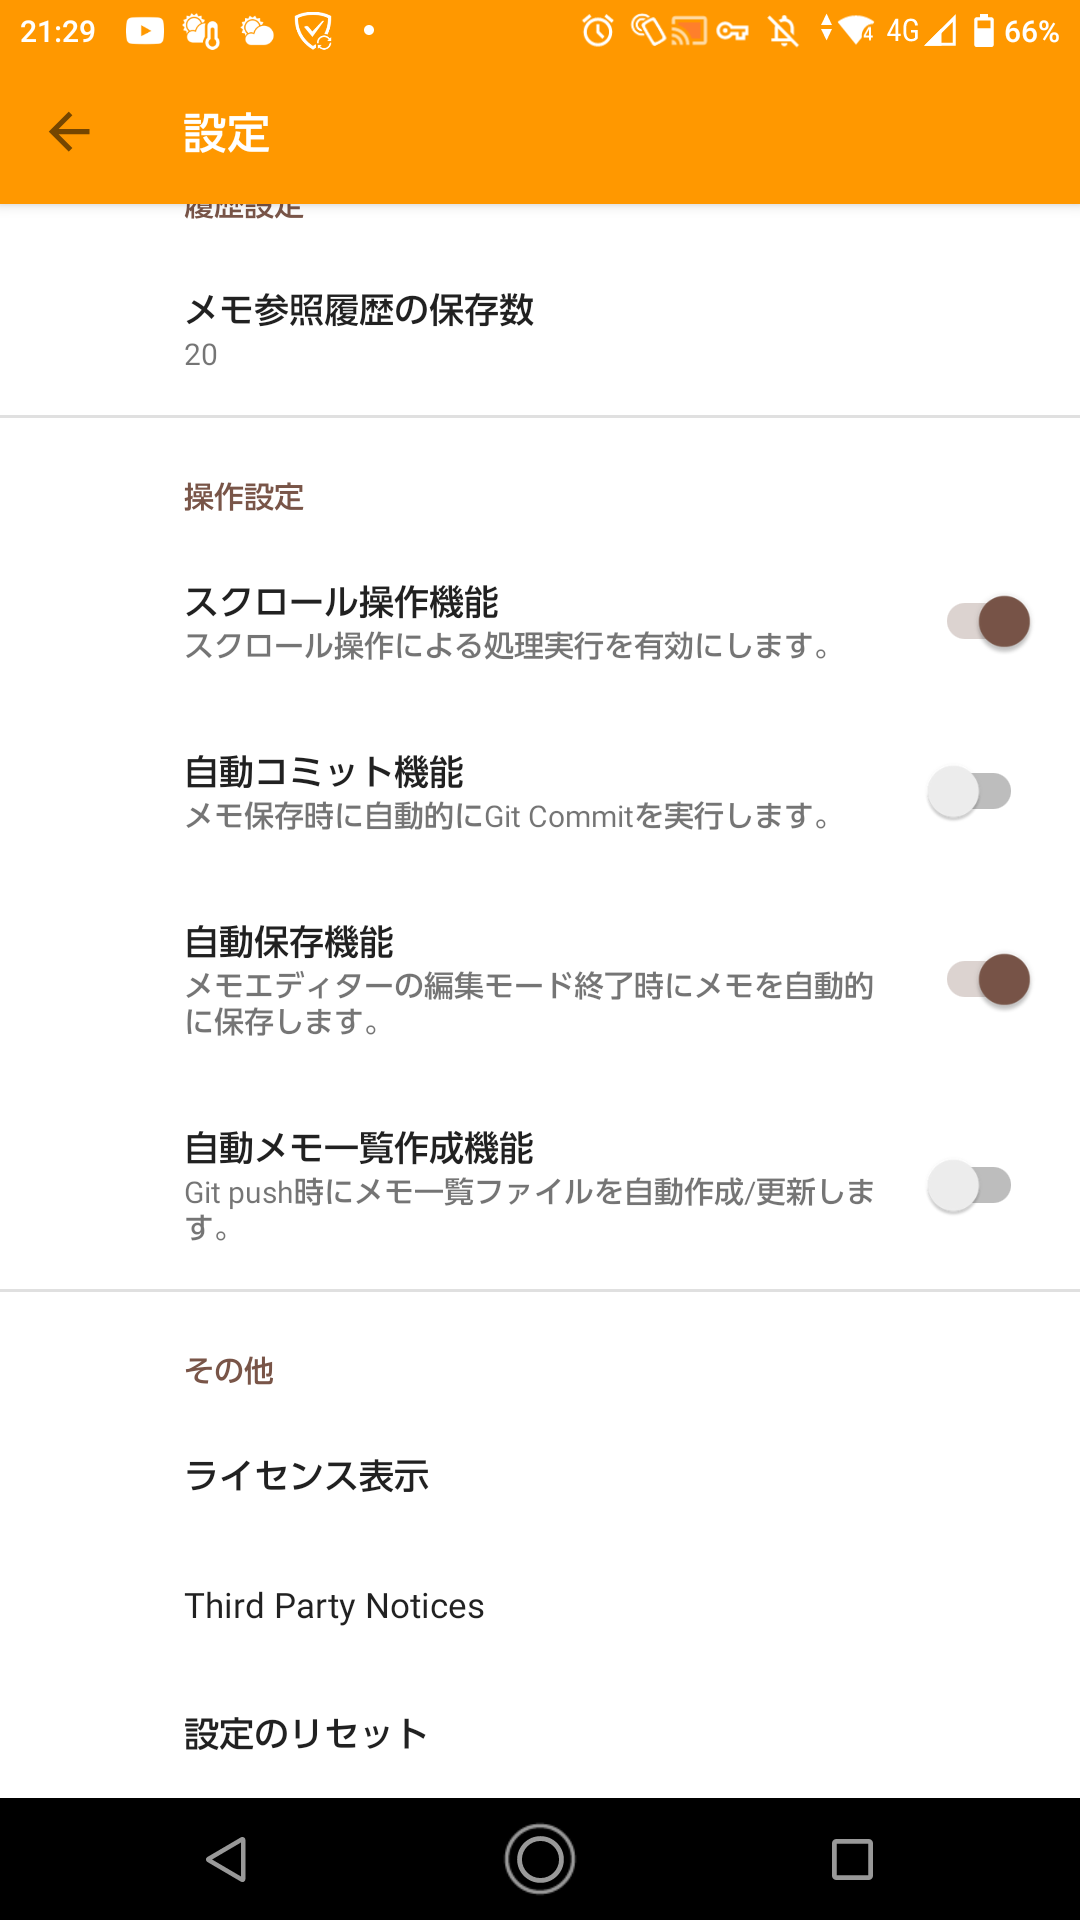
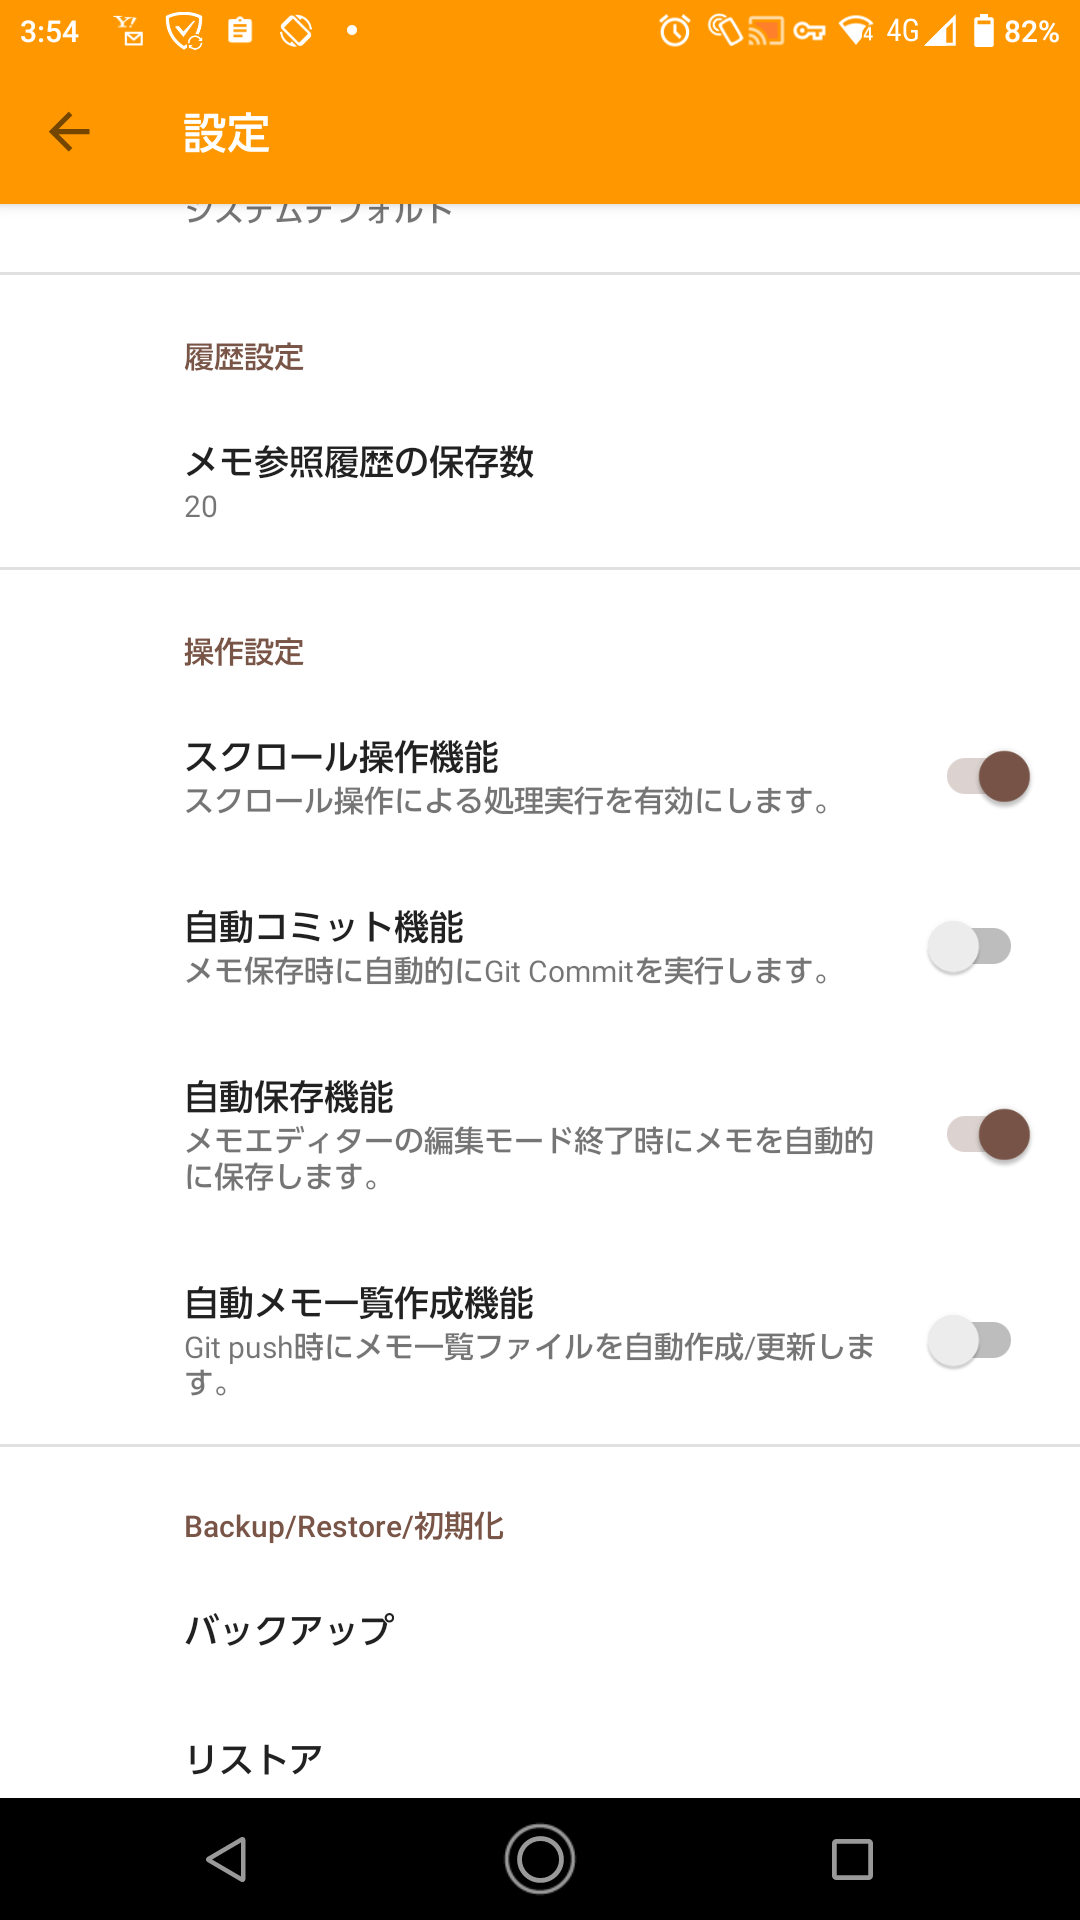
'release-0.2.0'

diff --git a/04-settings/index.md b/04-settings/index.md
@@ -4,7 +4,7 @@ Git関連の設定を行います。
 
 ## Gitリポジトリ接続設定リスト
 - 一番左端のボタンをタップすると`Gitリポジトリ接続設定を編集`ダイアログが表示され、新規の設定を追加できます。
-<img src="./img/04-settings-detail-004.png" width="30%">  <img src="./img/04-settings-detail-005.png" width="30%">  
+<img src="./img/04-settings-git-001.png" width="30%">  <img src="./img/04-settings-git-002.png" width="30%">  
   - Git接続設定の名前  
     任意の名前を設定します。この名前がメモリスト画面のタイトルの一部に使用されます。
   - GitリポジトリのURL
@@ -45,7 +45,7 @@ Git関連の設定を行います。
 - 画面表示の言語を変更します。現在選択可能な言語は`日本語`と`英語`です。
 
 # 履歴設定・操作設定・その他
-![設定画面詳細](./img/settings-detail-003.png)
+<img src="./img/04-settings-detail-003.png" width="30%"> <img src="./img/04-settings-detail-004.png" width="30%">
 
 ## 履歴設定
 ## メモ参照履歴の保存数
@@ -68,6 +68,14 @@ Git関連の設定を行います。
 - 有効の場合はgit push時に自動でメモ一覧作成、コミットを行いgit pushの中に含めます。
 - デフォルトは無効です。
 
+# バックアップ/リストア/初期化
+## バックアップ
+- データと設定画面の内容のバックアップを取得します。
+## リストア
+- バックアップデータをリストアします。
+## 設定のリセット
+- データと設定画面の内容を初期化します。
+
 # その他
 ## ライセンス表示
 - このアプリのライセンス表示です。
@@ -75,5 +83,3 @@ Git関連の設定を行います。
 ## Third Party Notices
 - このアプリが使用しているライブラリのライセンス表示です。
 
-## 設定のリセット
-- 設定画面の内容を初期状態にリセットします。

diff --git a/01-list/index.md b/01-list/index.md
@@ -49,12 +49,25 @@
 - ヘルプメニュー  
   `ヘルプ`をタップするとブラウザが起動してヘルプページを表示します。
 
-- メモ一覧作成メニュー  
-  メモのタイトルとファイル名、作成日、更新日を記載したMarkdownファイルを生成します。
+- メモ一覧メニュー  
+  メモのタイトルとファイル名、作成日、更新日を記載したMarkdownファイル(git-memocho-index.md)を生成します。  
+  git-memocho-index.mdの内容をメモリストに反映することができます。
+
 - 検索  
   メモの内容を全文検索するための検索バーを表示します。
 - ファイルツリー表示On/Off  
-  メモ一覧表示とファイルツリー表示の切り替えを行います。
+  メモ一覧表示とファイルツリー表示の切り替えを行います。  
+  - メモ一覧  
+    初期表示画面。メモタイトル一覧画面を表示します。
+  - ファイルツリー(ファイル名)  
+    メモをフォルダ階層表示します。各メモのファイル名を表示します。  
+    <img src="./img/01-list-tree-001.png" width="30%">
+    
+  - ファイルツリー(メモタイトル)  
+    メモをフォルダ階層表示します。各メモのメモタイトルを表示します。 
+    <img src="./img/01-list-tree-002.png" width="30%">  
+    
+
 - git menu  
   git commit、git pull、git pushの選択ダイアログを表示します。
   
@@ -95,4 +108,3 @@
   検索バーを表示します。
 - 右スクロール -> 左スクロール -> 右スクロール   
   ファイルツリー表示On/Offを実行します。
-

diff --git a/02-editor/index.md b/02-editor/index.md
@@ -24,7 +24,9 @@
   メモのタイトルを変更します。
 - 検索  
   テキスト内の文字列を検索するための検索バーを表示します。  
-   
+- ステータス表示on/off  
+  ステータス(文字数、ファイルタイプ、更新日時など）の表示または非表示にします。
+
 ## 画面操作
 ### メモを編集する。
 画面をダブルタップすると編集モードになります。  
@@ -63,6 +65,7 @@
 - 上下スクロールで画面スクロールを行う。
   - 右スクロール -> 下スクロール -> 離すと先頭へ移動、それ以外はキャンセル
   - 右スクロール -> 上スクロール -> 離すと最後へ移動、それ以外はキャンセル
+
  - オプションメニュー
    - オプションメニューからテキストかMarkDownかの設定が可能。
    - オプションメニューからタイトル編集が可能。

diff --git a/README.md b/README.md
@@ -16,9 +16,12 @@
 - 登録可能なGitリポジトリは10個までです。
 - Gitブランチの作成、選択の機能がありません。デフォルトブランチのみ使用可能です。
 - 巨大なリポジトリのgit cloneはできません。(エラーになります)
-- Markdownはテキスト表示のみ。画像表示、リンク先への移動はできません。
+- Markdownはテキスト表示のみ。画像表示はできません。
 - メモはリポジトリ直下のディレクトリに作成される。保存先のディレクトリは選択できません。
 - ファイルのコピー、移動といった操作はできません。
+
+## 変更履歴
+- [変更履歴](./release.md)参照
 
 ## 使い方
 - [メモリスト画面](./01-list/index.md)

diff --git a/release.md b/release.md
@@ -1,0 +1,12 @@
+## What's Changed
+### 0.1.0
+* 初版リリース
+
+### 0.2.0
+* 全般
+  * バックアップ/リストア機能を追加しました。
+* メモリスト画面
+  * ステータス表示の追加しました。
+* メモ編集・参照画面
+  * ファイルツリービューモードにメモタイトル表示機能を追加しました。
+  * メモタイトルのインポート機能を追加しました。
